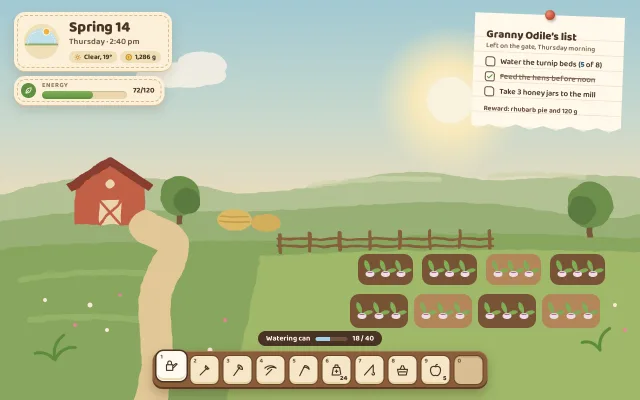
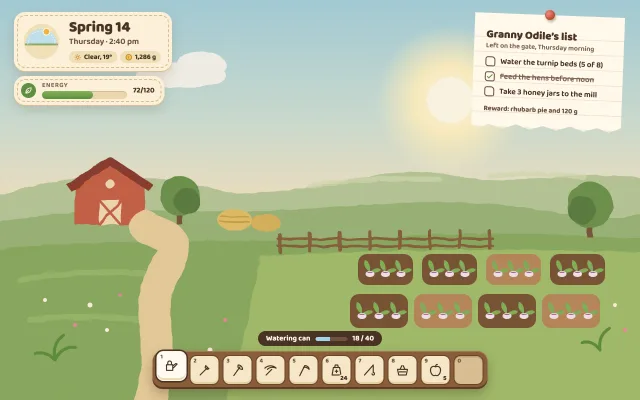
Pass the last three gate failures on Linux.
The gate opens built pages on their own, so the Lounge signature drew over piece text; the library shows pieces in a frame, where it never appears, so new pieces are now judged without it (legacy pieces keep it until the ratchet is re-measured). The cozy farm's quest count was a separately coloured number inside rotated, ruled text, which the pixel check could not separate from its line; the line is now one colour. The spatial reader's 14:02 label sat on frosted glass beside the wave bars; it now has its own solid chip.

diff --git a/src/demos/game-cozy-farm-hud.html b/src/demos/game-cozy-farm-hud.html
@@ -57,7 +57,6 @@ button{font:inherit;color:inherit}
 .box svg{width:16px;height:16px;opacity:0;transform:scale(.4);transition:transform 300ms var(--spring),opacity 200ms}
 li.done .box svg{opacity:1;transform:none}
 li.done .t{text-decoration:line-through;text-decoration-thickness:2px;color:var(--ink-3)}
-.t b{color:var(--water);font-weight:800}
 .reward{margin-top:10px;font:700 14px/1.3 var(--font);color:var(--ink-2)}
 /* hotbar */
 .bar{position:absolute;left:50%;bottom:22px;transform:translateX(-50%);display:flex;flex-direction:column;align-items:center;gap:10px;width:max-content;max-width:calc(100% - 24px)}
@@ -131,7 +130,7 @@ li.done .t{text-decoration:line-through;text-decoration-thickness:2px;color:var(
   <h2 id="qh">Granny Odile&rsquo;s list</h2>
   <div class="from">Left on the gate, Thursday morning</div>
   <ul>
-    <li id="q1"><span class="box"><svg viewBox="0 0 24 24" fill="none" stroke="currentColor" stroke-width="3" stroke-linecap="round" stroke-linejoin="round"><path d="M5 13l4 4L19 7"/></svg></span><span class="t">Water the turnip beds (<b id="qn">5</b> of 8)</span></li>
+    <li id="q1"><span class="box"><svg viewBox="0 0 24 24" fill="none" stroke="currentColor" stroke-width="3" stroke-linecap="round" stroke-linejoin="round"><path d="M5 13l4 4L19 7"/></svg></span><span class="t" id="qn">Water the turnip beds (5 of 8)</span></li>
     <li class="done"><span class="box"><svg viewBox="0 0 24 24" fill="none" stroke="currentColor" stroke-width="3" stroke-linecap="round" stroke-linejoin="round"><path d="M5 13l4 4L19 7"/></svg></span><span class="t">Feed the hens before noon</span></li>
     <li><span class="box"><svg viewBox="0 0 24 24" fill="none" stroke="currentColor" stroke-width="3" stroke-linecap="round" stroke-linejoin="round"><path d="M5 13l4 4L19 7"/></svg></span><span class="t">Take 3 honey jars to the mill</span></li>
   </ul>
@@ -187,7 +186,7 @@ li.done .t{text-decoration:line-through;text-decoration-thickness:2px;color:var(
     const r = g.querySelector('rect'), d = document.createElementNS('http://www.w3.org/2000/svg', 'g');
     d.setAttribute('class', 'drop'); d.innerHTML = [0, 1, 2].map(k => `<path d="M${+r.getAttribute('x') + 30 + k * 34} ${+r.getAttribute('y') - 6}c-5 7-5 12 0 12s5-5 0-12z" fill="#9fd3ee"/>`).join('');
     P.appendChild(d); setTimeout(() => d.remove(), 800);
-    water--; energy = Math.max(0, energy - 2); done = Math.min(8, done + 1); $('qn').textContent = done; tag();
+    water--; energy = Math.max(0, energy - 2); done = Math.min(8, done + 1); $('qn').textContent = `Water the turnip beds (${done} of 8)`; tag();
     $('eb').style.width = energy / 120 * 100 + '%'; $('ev').textContent = `${energy}/120`; $('em').setAttribute('aria-valuenow', energy);
     if (done === 8) { $('q1').classList.add('done'); hint('All eight beds watered. Granny Odile will be pleased.'); }
   };

diff --git a/src/demos/spatial-glass-windows.html b/src/demos/spatial-glass-windows.html
@@ -79,6 +79,7 @@ mark{background:rgba(243,201,106,.2);color:var(--ink);border-radius:3px;padding:
 .tool{left:50%;bottom:-30px;translate:-50% 0;align-items:center}
 .tool .gz{height:44px;min-width:44px;padding:0 14px;display:flex;align-items:center;gap:8px;font-weight:500;font-size:14px}
 .tool .gz.i{padding:0;justify-content:center}
+.tool .hide{padding:2px 6px;margin-left:-2px;border-radius:8px;background:#262629;font-variant-numeric:tabular-nums}
 .tool .sep{width:1px;height:24px;background:rgba(255,255,255,.2)}
 .tabs{left:-76px;top:50%;translate:0 -50%;flex-direction:column}
 .tabs .gz{width:48px;height:48px;display:grid;place-items:center}
